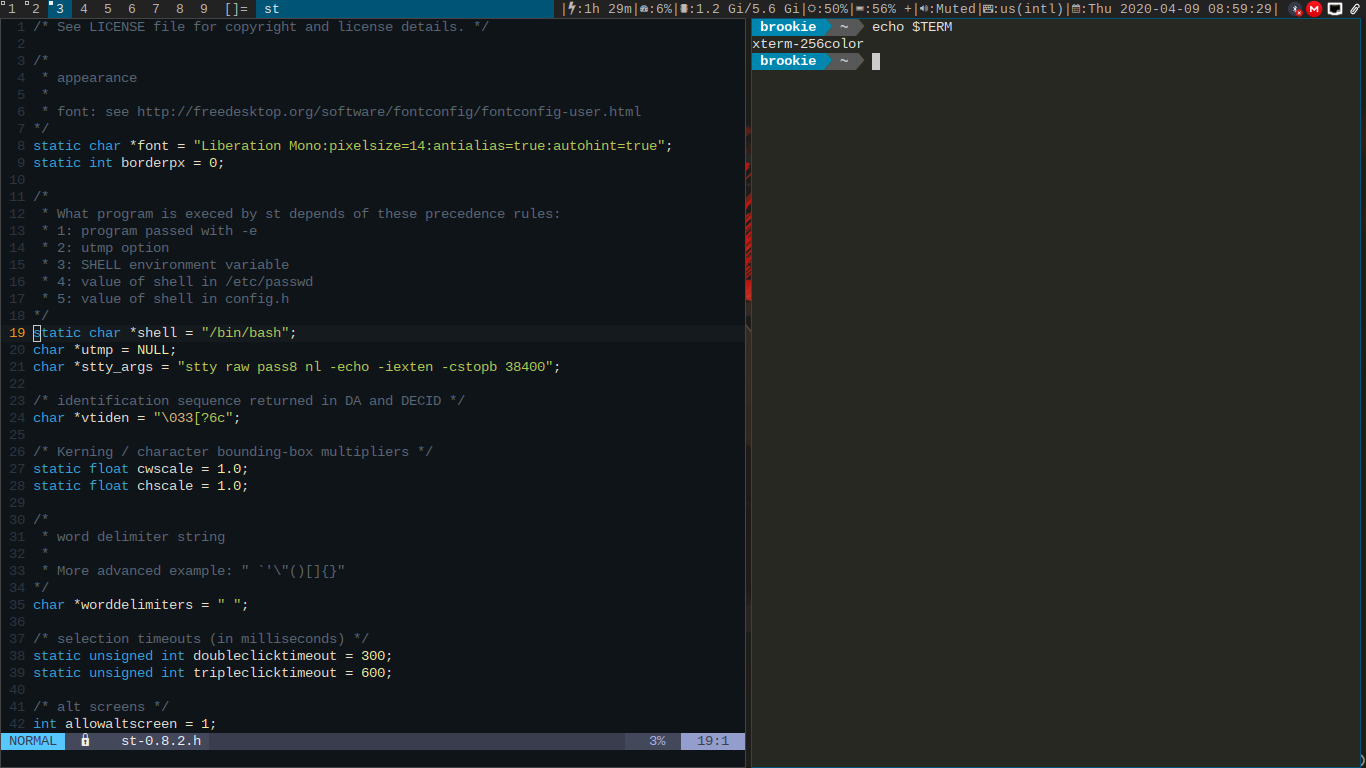
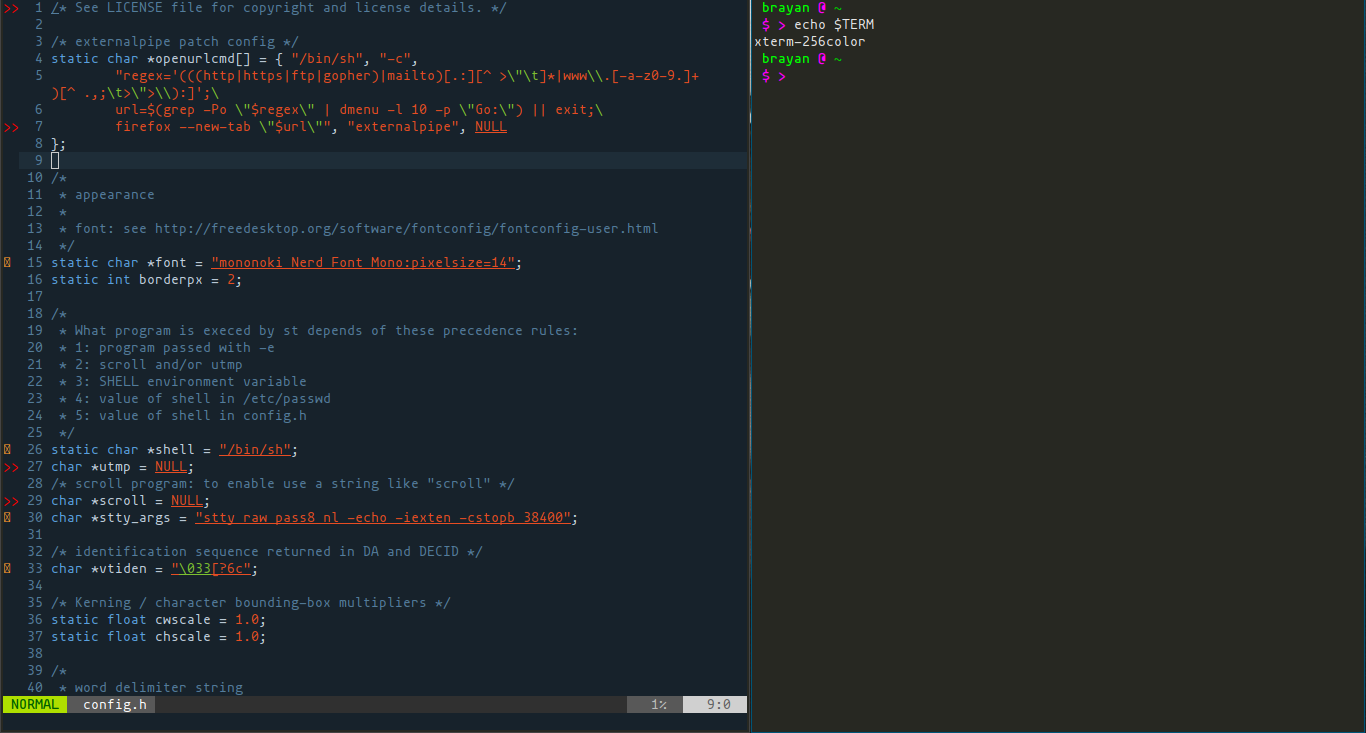
Updating README and the screenshot.

Changed region(s): [[0.0, 0.0, 1.0, 0.7503], [0.0, 0.4202, 0.5534, 0.9905], [0.9839, 0.9604, 1.0, 1.0]]

diff --git a/README.md b/README.md
@@ -2,15 +2,6 @@
 --------------------
 st is a simple terminal emulator for X which sucks less.
 
-**Features**
-```
-Scroll using the mouse
-```
-
-**Note**
-To make scroll you will need to have installed the 'scroll' utility which can be found 
-[at](https://github.com/brookiestein/scroll)
-
 **Requirements**
 ------------
 In order to build st you need the Xlib header files.
@@ -23,8 +14,10 @@ the /usr/local namespace by default).
 
 Afterwards enter the following command to build and install st:
 
+Take special care while patching st, some patches could give you errors.
+So you would need to patch them manually.
 ```
-for i in $(ls -1 patches/); do patch -i patches/$i; done
+patch -p1 < st-patch # Use this syntax for each patch.
 make clean install
 ```
 
